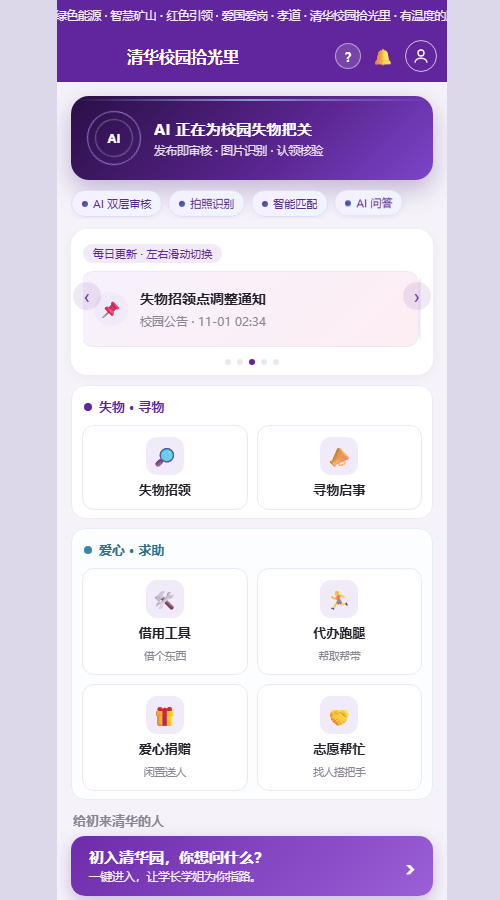
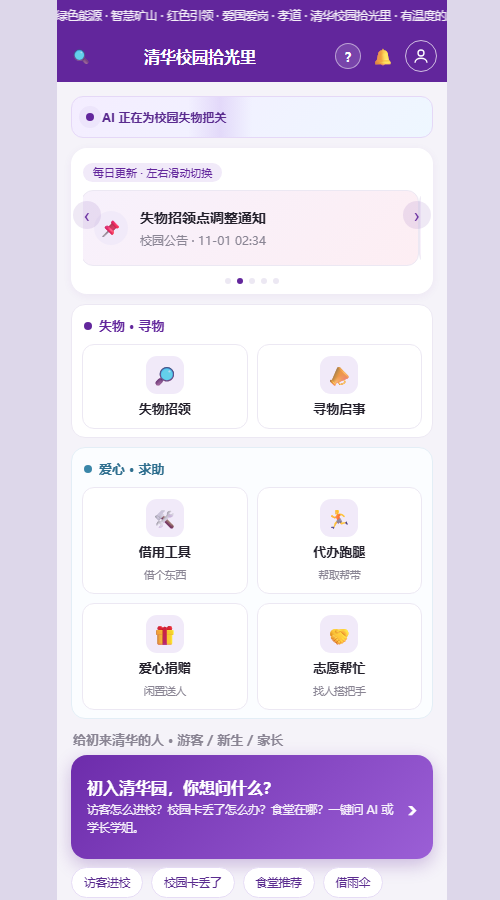
feat: light AI motion and waving hand

diff --git a/用户端.html b/用户端.html
@@ -4,7 +4,7 @@
 <meta charset="utf-8">
 <meta name="viewport" content="width=device-width,initial-scale=1,maximum-scale=1,user-scalable=no">
 <title>清华校园拾光里 v3.2 · 校园互助服务平台</title>
-<link rel="stylesheet" href="assets/styles.css?v=20261119">
+<link rel="stylesheet" href="assets/styles.css?v=20261120">
 </head>
 <body>
 <div id="bootGuard" style="position:fixed;inset:0;z-index:3000;background:#1b0b2e;color:#fff;display:flex;align-items:center;justify-content:center;flex-direction:column;font:14px/1.9 'Microsoft YaHei',system-ui,sans-serif;text-align:center;padding:24px">
@@ -52,7 +52,7 @@ setTimeout(function(){
   <!-- ============ 首页 ============ -->
   <section class="screen active" id="screen-home">
     <div class="ticker"><div class="ticker-track"><span>绿色能源 · 智慧矿山 · 红色引领 · 爱国爱岗 · 孝道 · 清华校园拾光里 · 有温度的服务</span><span>绿色能源 · 智慧矿山 · 红色引领 · 爱国爱岗 · 孝道 · 清华校园拾光里 · 有温度的服务</span></div></div>
-    <div class="topbar"><button type="button" class="top-search" id="homeSearchBtn" title="搜索">🔍</button><div class="t">清华校园拾光里</div><button type="button" class="help-btn" id="tourBtn" title="使用引导">?</button><div class="bell" id="bellBtn" title="通知">🔔<i id="bellDot" style="display:none">0</i></div><div class="login" id="loginBtn" title="我的发布">
+    <div class="topbar"><button type="button" class="top-search" id="homeSearchBtn" title="搜索"><svg viewBox="0 0 24 24" width="17" height="17" fill="none" stroke="#fff" stroke-width="2.2" stroke-linecap="round"><circle cx="11" cy="11" r="7"/><path d="M16.5 16.5 21 21"/></svg></button><div class="t">清华校园拾光里</div><button type="button" class="help-btn" id="tourBtn" title="使用引导">?</button><div class="bell" id="bellBtn" title="通知">🔔<i id="bellDot" style="display:none">0</i></div><div class="login" id="loginBtn" title="我的发布">
       <svg viewBox="0 0 24 24" fill="none" stroke="#fff" stroke-width="1.8" width="18" height="18"><circle cx="12" cy="8" r="4"/><path d="M4 21c0-4 4-6 8-6s8 2 8 6"/></svg>
     </div></div>
     <div class="tour-banner" id="tourBanner" style="display:none">
@@ -63,6 +63,12 @@ setTimeout(function(){
     <div class="scroll">
       <button type="button" id="quickPhotoBtn" style="display:none"></button>
       <input type="file" id="quickPhotoInput" accept="image/*" capture="environment" style="display:none">
+
+      <div class="ai-lite">
+        <span class="ai-dot"></span>
+        <span class="ai-lite-t">AI 正在为校园失物把关</span>
+        <span class="ai-scan"></span>
+      </div>
 
       <!-- 中央宣传窗 -->
       <div class="mem-win">

diff --git a/assets/styles.css b/assets/styles.css
@@ -518,3 +518,13 @@ body{font-family:-apple-system,BlinkMacSystemFont,"PingFang SC","Microsoft YaHei
 .gai-row .btn{flex:0 0 auto;padding:8px 14px;font-size:12.5px;}
 .gai-chips{display:flex;gap:7px;flex-wrap:wrap;margin-top:9px;}
 .gai-chips span{font-size:11px;padding:5px 10px;border-radius:99px;background:#fff;border:1px solid #e5d9f7;color:#62269c;cursor:pointer;}
+
+/* 轻量 AI 动效：只保留中间一条闪动 + 小手摆动 */
+.ai-lite{position:relative;display:flex;align-items:center;gap:8px;height:42px;padding:0 14px;margin-bottom:10px;border-radius:12px;background:linear-gradient(135deg,#f4edff,#eef7ff);border:1px solid #e5d8f7;overflow:hidden;}
+.ai-dot{width:8px;height:8px;border-radius:50%;background:#62269c;animation:aiDot 2s ease-out infinite;}
+@keyframes aiDot{0%{box-shadow:0 0 0 0 rgba(98,38,156,.35)}70%{box-shadow:0 0 0 8px rgba(98,38,156,0)}100%{box-shadow:0 0 0 0 rgba(98,38,156,0)}}
+.ai-lite-t{font-size:12px;font-weight:700;color:#5a2b8f;position:relative;z-index:2;}
+.ai-scan{position:absolute;top:0;bottom:0;width:64px;background:linear-gradient(90deg,transparent,rgba(160,107,224,.18),transparent);animation:aiSweep 3.2s linear infinite;}
+@keyframes aiSweep{0%{left:-70px}100%{left:100%}}
+.tour.show .tour-emoji{animation:waveHand 2s ease-in-out infinite;transform-origin:70% 80%;}
+@keyframes waveHand{0%,100%{transform:rotate(-6deg)}50%{transform:rotate(10deg)}}
